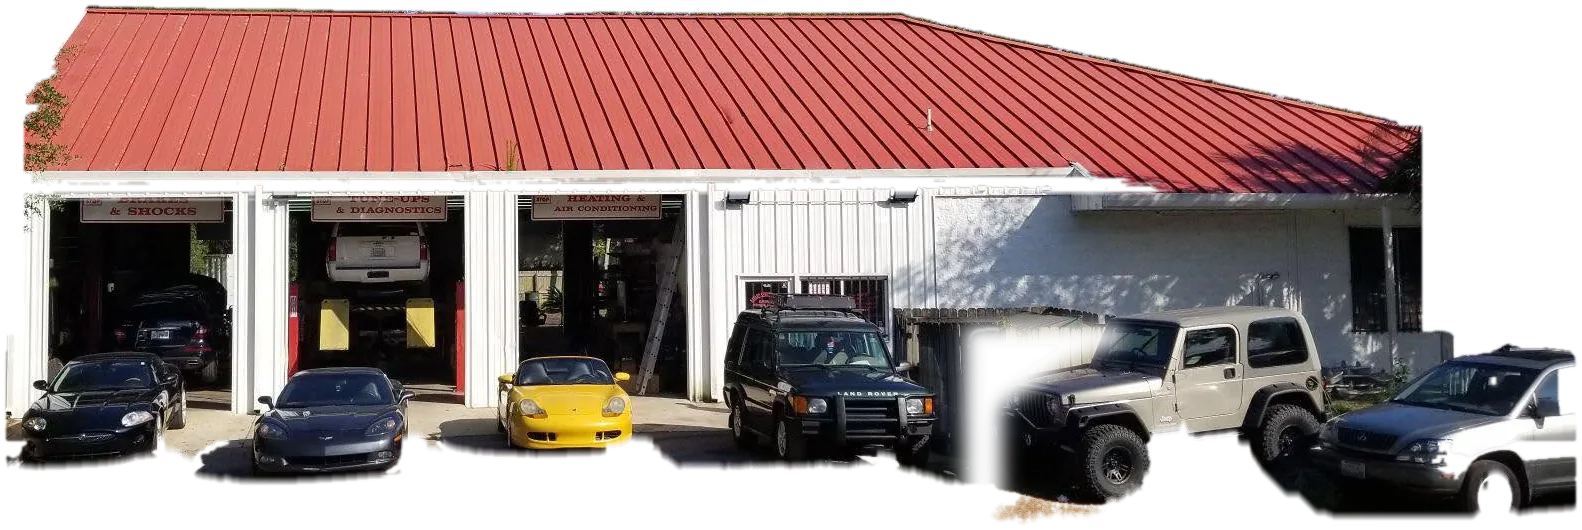
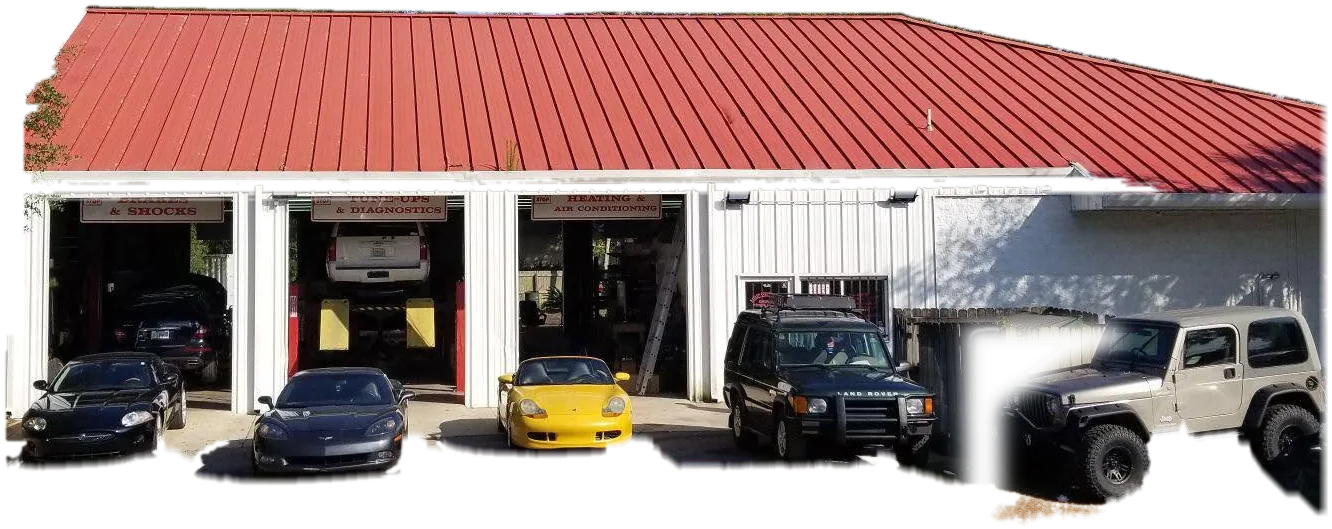
Keep the desktop hero copy clear of the shop cutout. (#3)
Seat the cutout in the leftover band under the rating pill so the roof no longer runs through the text, and crop the image just past the Jeep so the dark patch and silver SUV are gone.

diff --git a/css/styles.css b/css/styles.css
@@ -349,26 +349,57 @@ h2 { font-size: clamp(2.6rem, 5vw, 4.4rem); }
 }
 
 @media (min-width: 900px) {
+  .hero {
+    min-height: 100dvh;
+    padding-bottom: 12px;
+  }
+  .hero-copy { padding-bottom: 0; }
   .hero-stage {
-    position: absolute;
-    left: 0;
-    right: 0;
-    bottom: 0;
+    position: relative;
+    left: auto;
+    right: auto;
+    bottom: auto;
+    flex: 1 1 auto;
+    min-height: 200px;
     width: 100%;
-    margin-top: 0;
+    margin-top: 8px;
     pointer-events: none;
   }
+  .hero-parallax {
+    position: absolute;
+    inset: 48px 0 0;
+    display: flex;
+    align-items: flex-end;
+    justify-content: center;
+  }
+  .hero-parallax picture {
+    display: flex;
+    align-items: flex-end;
+    justify-content: center;
+    height: 100%;
+    max-width: 100%;
+  }
   .hero-cutout {
-    width: min(1220px, 94vw);
+    width: auto;
+    max-width: min(1080px, 88vw);
+    max-height: 100%;
+    height: auto;
     margin-inline: auto;
+    object-fit: contain;
   }
   .hero-ground {
     left: 50%;
     right: auto;
-    width: min(1040px, 80vw);
+    width: min(920px, 72vw);
     transform: translateX(-50%);
   }
-  .hero-copy { padding-bottom: 28vh; }
+}
+
+@media (min-width: 900px) and (max-height: 760px) {
+  .hero { padding-top: calc(var(--header) + 8px); }
+  .hero h1 { font-size: clamp(2.45rem, 5.4vh, 3.7rem); }
+  .hero .lede { margin-top: 8px; font-size: 1.02rem; }
+  .hero-actions { margin: 12px 0 8px; }
 }
 
 /* Stats --------------------------------------------------------------- */

diff --git a/index.html b/index.html
@@ -130,7 +130,7 @@
           <div class="hero-ground" aria-hidden="true"></div>
           <picture>
             <source srcset="assets/images/shop-cutout.webp" type="image/webp">
-            <img class="hero-cutout" src="assets/images/shop-cutout.png" width="1582" height="530" alt="Bayard Auto Center shop front on Philips Highway: a white building with a red metal roof, three open service bays, and cars parked out front." fetchpriority="high">
+            <img class="hero-cutout" src="assets/images/shop-cutout.png" width="1332" height="529" alt="Bayard Auto Center shop front on Philips Highway: a white building with a red metal roof, three open service bays, and cars parked out front." fetchpriority="high">
           </picture>
         </div>
         <div class="hero-fade" aria-hidden="true"></div>
